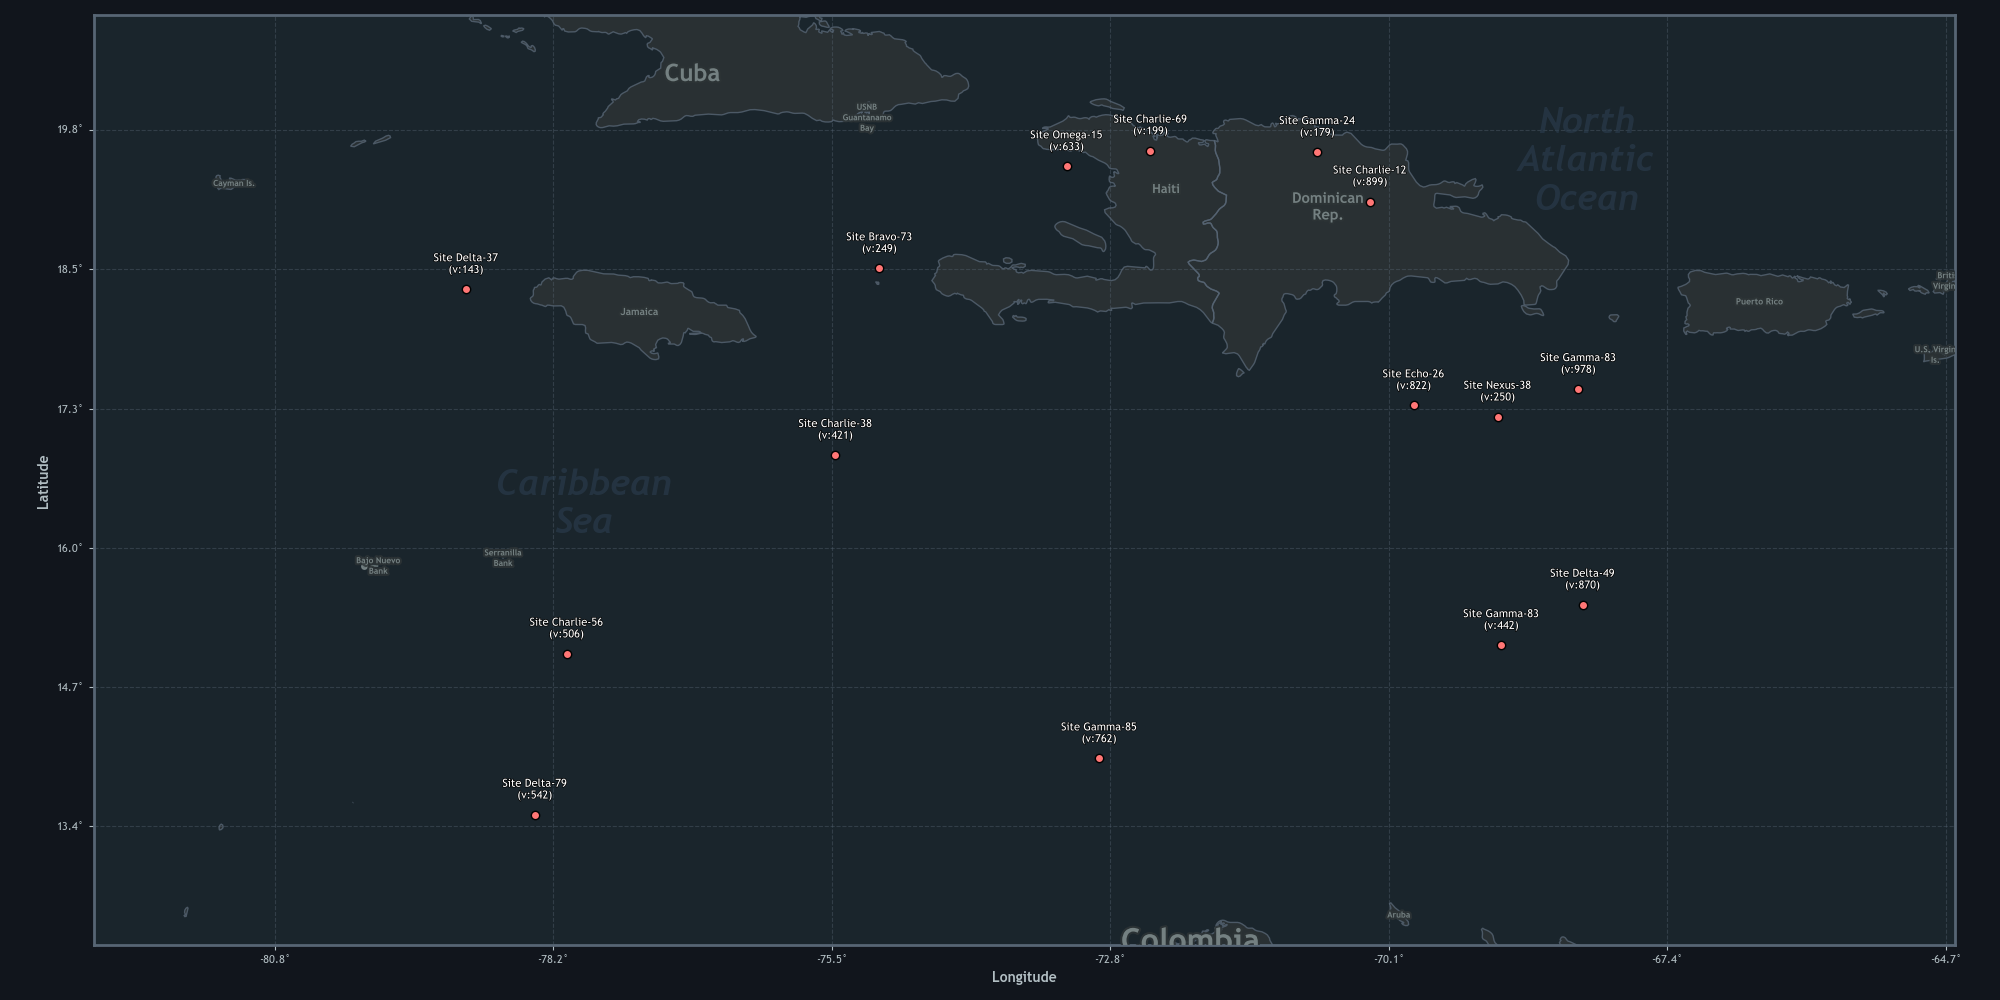
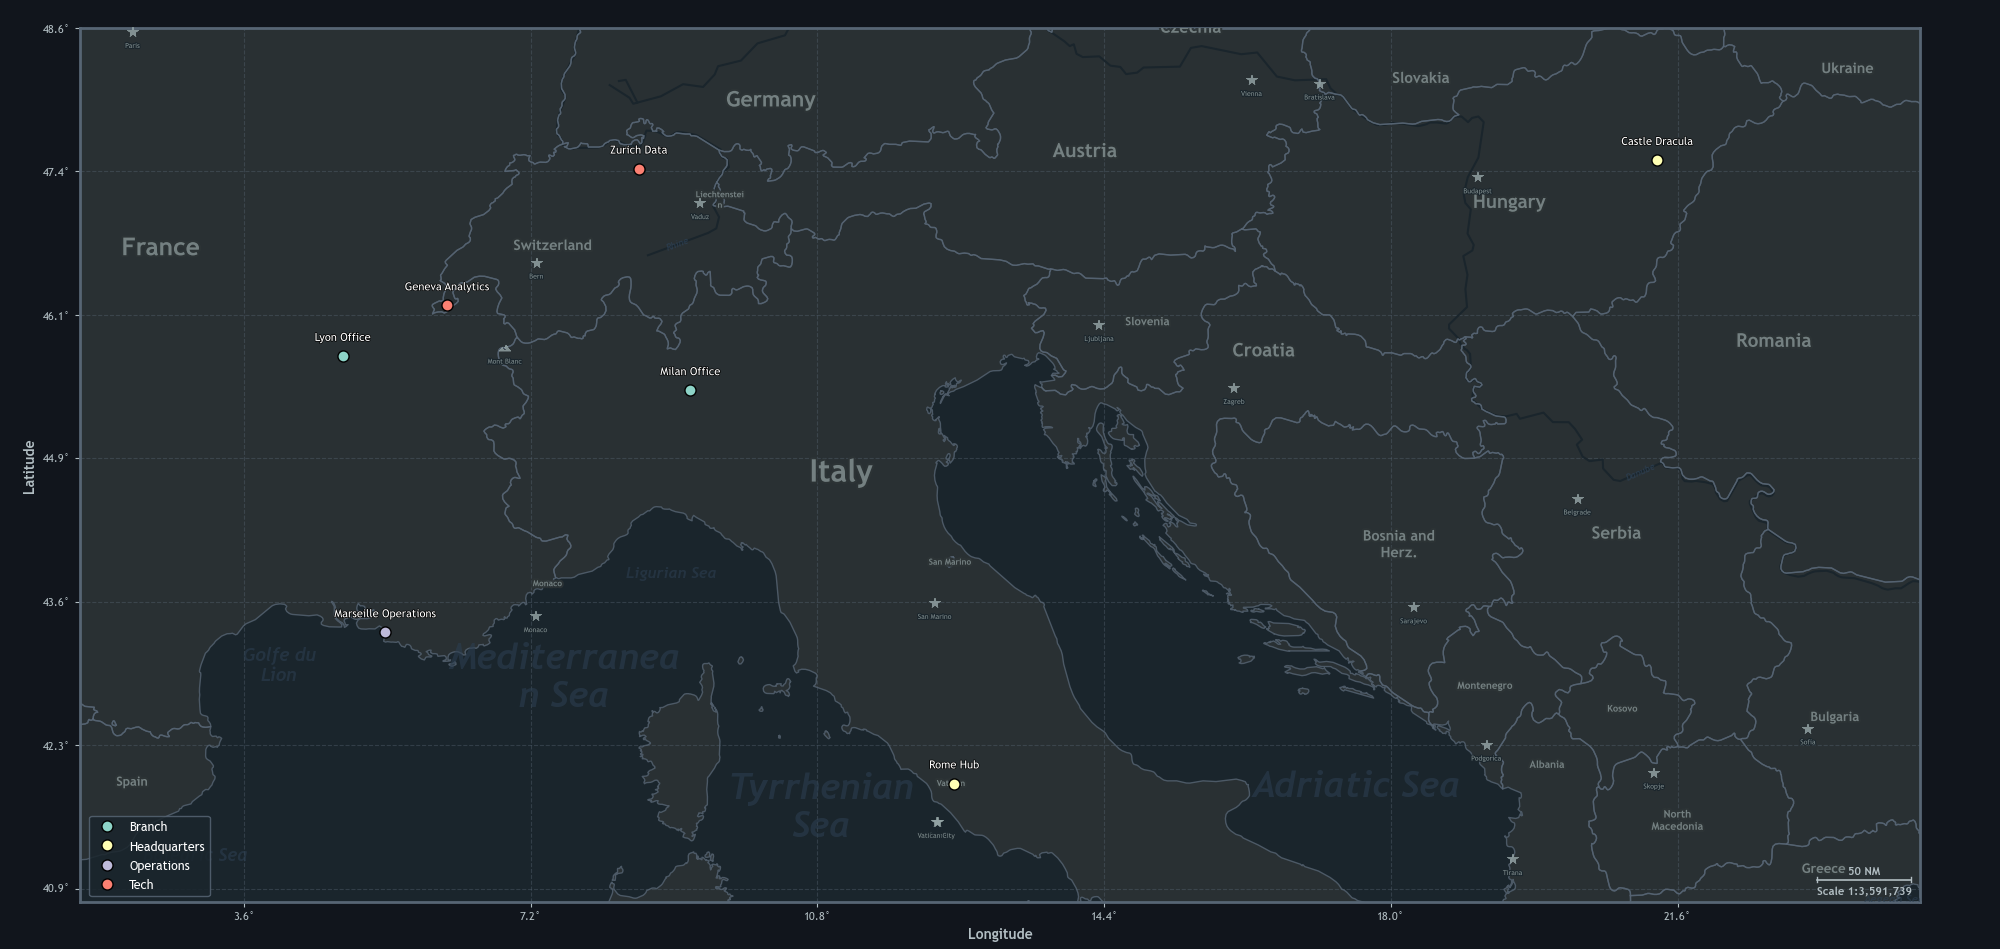
add csv feature support; dynamic layout

diff --git a/plot_map.py b/plot_map.py
@@ -1,11 +1,13 @@
 #!/usr/bin/env python3
 import json
 import argparse
+import csv
+import matplotlib.cm as cm
+import matplotlib.lines as mlines
 import random
 import glob
 import sys
 import math
-import sqlite3
 import io
 from PIL import Image
 import matplotlib
@@ -95,65 +97,7 @@ def create_polygon_patch(coords, facecolor, edgecolor, linewidth, alpha, zorder=
     patch = PathPatch(path, facecolor=facecolor, edgecolor=edgecolor, linewidth=linewidth, alpha=alpha, zorder=zorder)
     return patch, path
 
-def plot_mbtiles(db_path, view_bbox, ax):
-    min_lon, min_lat, max_lon, max_lat = view_bbox
-    conn = sqlite3.connect(db_path)
-    c = conn.cursor()
-    c.execute("SELECT MIN(zoom_level), MAX(zoom_level) FROM tiles")
-    row = c.fetchone()
-    if not row or row[0] is None:
-        print(f"No tiles found in {db_path}")
-        return
-    min_z, max_z = row
-    
-    lon_span = max_lon - min_lon
-    target_tiles = 4.0
-    if lon_span <= 0:
-        z = max_z
-    else:
-        z = int(round(math.log2(360.0 * target_tiles / lon_span)))
-    # Try to zoom in one level for better resolution, but safely clamp to what the DB actually has
-    z = max(min_z, min(z + 1, max_z))
-    print(f"Using zoom level {z} for MBTiles.")
-    
-    def deg2num(lat_deg, lon_deg, zoom):
-        lat_rad = math.radians(lat_deg)
-        n = 2.0 ** zoom
-        xtile = int((lon_deg + 180.0) / 360.0 * n)
-        ytile = int((1.0 - math.asinh(math.tan(lat_rad)) / math.pi) / 2.0 * n)
-        return (xtile, ytile)
-        
-    def num2merc(xtile, ytile, zoom):
-        n = 2.0 ** zoom
-        tile_size = 2.0 * MERCATOR_MAX / n
-        x = -MERCATOR_MAX + xtile * tile_size
-        y = MERCATOR_MAX - ytile * tile_size
-        return x, y
-    
-    xmin, ymin = deg2num(max_lat, min_lon, z)
-    xmax, ymax = deg2num(min_lat, max_lon, z)
-    if xmax < xmin:
-        xmax += 2**z
 
-    tiles_drawn = 0
-    for x in range(xmin, xmax + 1):
-        for y in range(ymin, ymax + 1):
-            wrapped_x = x % (2**z)
-            tms_y = (2**z - 1) - y
-            c.execute("SELECT tile_data FROM tiles WHERE zoom_level=? AND tile_column=? AND tile_row=?", (z, wrapped_x, tms_y))
-            res = c.fetchone()
-            if res:
-                img = Image.open(io.BytesIO(res[0]))
-                if img.mode != 'RGB':
-                    img = img.convert('RGB')
-                x_left, y_top = num2merc(x, y, z)
-                _, y_bot = num2merc(x, y+1, z)
-                x_right, _ = num2merc(x+1, y, z)
-                ax.imshow(img, extent=[x_left, x_right, y_bot, y_top], origin='upper', alpha=1.0, zorder=0)
-                tiles_drawn += 1
-    
-    conn.close()
-    print(f"Drawn {tiles_drawn} raster tiles from MBTiles.")
 
 def plot_geojson_layer(geojson_path, view_bbox, ax, args, merc_bounds, layer_type="land"):
     merc_min_x, merc_min_y, merc_max_x, merc_max_y = merc_bounds
@@ -455,7 +399,7 @@ def plot_geojson_layer(geojson_path, view_bbox, ax, args, merc_bounds, layer_typ
     except Exception as e:
         print(f"Error reading or plotting geojson: {e}")
 
-def plot_map(points, geojson_path, mbtiles_path, args):
+def plot_map(points, geojson_path, args, group_colors=None):
     # Calculate bounding box of generated points
     lons = [p["lon"] for p in points]
     lats = [p["lat"] for p in points]
@@ -478,22 +422,6 @@ def plot_map(points, geojson_path, mbtiles_path, args):
     
     merc_width = merc_max_x - merc_min_x
     merc_height = merc_max_y - merc_min_y
-    target_ratio = 2.0
-    current_ratio = merc_width / merc_height if merc_height > 0 else target_ratio
-    
-    if current_ratio < target_ratio:
-        # Too tall, pad width
-        required_width = merc_height * target_ratio
-        padding_x = (required_width - merc_width) / 2.0
-        merc_min_x -= padding_x
-        merc_max_x += padding_x
-    else:
-        # Too wide, pad height
-        required_height = merc_width / target_ratio
-        padding_y = (required_height - merc_height) / 2.0
-        merc_min_y -= padding_y
-        merc_max_y += padding_y
-        
     merc_min_x = max(-MERCATOR_MAX, merc_min_x)
     merc_max_x = min(MERCATOR_MAX, merc_max_x)
     merc_min_y = max(-MERCATOR_MAX, merc_min_y)
@@ -508,7 +436,63 @@ def plot_map(points, geojson_path, mbtiles_path, args):
     plt.rcParams['font.family'] = 'sans-serif'
     plt.rcParams['font.sans-serif'] = ['Trebuchet MS', 'Verdana', 'Tahoma', 'DejaVu Sans', 'Arial', 'sans-serif']
     
+    # Calculate map dimensions and target aspect ratios
+    merc_width = merc_max_x - merc_min_x
+    merc_height = merc_max_y - merc_min_y
+    data_ratio = merc_width / merc_height if merc_height > 0 else 2.0
+    
+    left_margin, right_margin = 0.04, 0.96
+    bottom_margin, top_margin = 0.05, 0.97
+    if not getattr(args, "show_axis_ticks", True):
+        left_margin, bottom_margin = 0.02, 0.02
+        right_margin, top_margin = 0.98, 0.98
+        
+    ax_width_frac = right_margin - left_margin
+    ax_height_frac = top_margin - bottom_margin
+    
+    if getattr(args, "fit_mode", "normal") == "dynamic":
+        target_image_ratio = data_ratio / (ax_width_frac / ax_height_frac)
+        h_if_w_fixed = args.width / target_image_ratio
+        if h_if_w_fixed >= args.height:
+            dynamic_width = args.width
+            dynamic_height = h_if_w_fixed
+        else:
+            dynamic_height = args.height
+            dynamic_width = args.height * target_image_ratio
+    else:
+        # normal mode: exact fixed width and height, pad map to fit
+        dynamic_width = args.width
+        dynamic_height = args.height
+        
+        target_image_ratio = args.width / args.height
+        target_data_ratio = target_image_ratio * (ax_width_frac / ax_height_frac)
+        
+        if data_ratio < target_data_ratio:
+            required_merc_width = merc_height * target_data_ratio
+            padding_x = (required_merc_width - merc_width) / 2.0
+            merc_min_x -= padding_x
+            merc_max_x += padding_x
+        else:
+            required_merc_height = merc_width / target_data_ratio
+            padding_y = (required_merc_height - merc_height) / 2.0
+            merc_min_y -= padding_y
+            merc_max_y += padding_y
+            
+        merc_min_x = max(-MERCATOR_MAX, merc_min_x)
+        merc_max_x = min(MERCATOR_MAX, merc_max_x)
+        merc_min_y = max(-MERCATOR_MAX, merc_min_y)
+        merc_max_y = min(MERCATOR_MAX, merc_max_y)
+        
+        # update view bbox based on padded area
+        new_min_lon, new_min_lat = merc_to_lonlat(merc_min_x, merc_min_y)
+        new_max_lon, new_max_lat = merc_to_lonlat(merc_max_x, merc_max_y)
+        view_bbox = (new_min_lon, new_min_lat, new_max_lon, new_max_lat)
+        
+    args.width = dynamic_width
+    args.height = dynamic_height
+    
     fig, ax = plt.subplots(figsize=(args.width, args.height))
+    fig.subplots_adjust(left=left_margin, right=right_margin, bottom=bottom_margin, top=top_margin)
     # Aspect ratio is simply equal for Mercator
     ax.set_aspect('equal')
     fig_bg = "#11151c" if args.dark_mode else "white"
@@ -516,10 +500,6 @@ def plot_map(points, geojson_path, mbtiles_path, args):
     ax.set_facecolor(args.bg_color)
     ax.patch.set_zorder(-1)
     
-    polygon_alpha = 0.8
-    if mbtiles_path:
-        plot_mbtiles(mbtiles_path, view_bbox, ax)
-        polygon_alpha = 0.2  # Make polygons transparent to show raster tiles
         
     # Read geojson layers
     merc_bounds = (merc_min_x, merc_min_y, merc_max_x, merc_max_y)
@@ -558,14 +538,67 @@ def plot_map(points, geojson_path, mbtiles_path, args):
     for i, p in enumerate(points):
         lon, lat = p["lon"], p["lat"]
         mx, my = lonlat_to_merc(lon, lat)
-        ax.plot(mx, my, marker=args.marker, color=args.point_color, markersize=args.point_size, markeredgecolor='black', markeredgewidth=1.0, zorder=5)
+        
+        color = args.point_color
+        if group_colors and p.get("group") in group_colors:
+            color = group_colors[p["group"]]
+            
+        ax.plot(mx, my, marker=args.marker, color=color, markersize=args.point_size, markeredgecolor='black', markeredgewidth=1.0, zorder=5)
         # Label generated points
-        if args.show_labels:
-            label = f"{p['name']}\n(v:{p['value']})"
+        if args.show_labels and p.get('name'):
+            label = p['name']
+            if not getattr(args, "csv", "") and 'value' in p and p['value']:
+                label += f"\n(v:{p['value']})"
             y_offset = (merc_max_y - merc_min_y) * 0.015
             txt = ax.text(mx, my + y_offset, label, fontsize=8, fontweight='normal', color=args.label_color, ha='center', va='bottom', zorder=6, clip_on=True)
             txt.set_path_effects([PathEffects.withStroke(linewidth=1.0, foreground=args.label_outline)])
     
+
+    # Add Scale Bar
+    center_lat = (args.lat_min + args.lat_max) / 2.0
+    lon_span = new_max_lon - new_min_lon
+    view_width_m = lon_span * math.cos(math.radians(center_lat)) * 111320
+    view_width_nm = view_width_m / 1852.0
+    
+    target_scale_nm = view_width_nm * 0.10
+    magnitude = 10 ** math.floor(math.log10(max(1, target_scale_nm))) if target_scale_nm > 0 else 1
+    normalized = target_scale_nm / magnitude
+    if normalized < 2: nice_val = 1
+    elif normalized < 5: nice_val = 2
+    else: nice_val = 5
+    scale_nm = max(1, int(nice_val * magnitude))
+    
+    scale_label = f"{scale_nm} NM"
+    deg_span = (scale_nm * 1852.0) / (math.cos(math.radians(center_lat)) * 111320)
+    merc_span = deg_span * MERCATOR_MAX / 180.0
+    
+    sb_color = "#7f8c8d" if not getattr(args, "dark_mode", False) else "#b2bec3"
+    
+    # Bottom right corner for scale bar (tucked closer to edge: 0.5%)
+    sb_x = merc_max_x - (merc_max_x - merc_min_x) * 0.005
+    sb_y = merc_min_y + (merc_max_y - merc_min_y) * 0.025
+    
+    ax.plot([sb_x - merc_span, sb_x], [sb_y, sb_y], color=sb_color, linewidth=1.2, zorder=10)
+    ax.plot([sb_x - merc_span, sb_x - merc_span], [sb_y - (merc_max_y - merc_min_y)*0.003, sb_y + (merc_max_y - merc_min_y)*0.003], color=sb_color, linewidth=1.0, zorder=10)
+    ax.plot([sb_x, sb_x], [sb_y - (merc_max_y - merc_min_y)*0.003, sb_y + (merc_max_y - merc_min_y)*0.003], color=sb_color, linewidth=1.0, zorder=10)
+    ax.text(sb_x - merc_span/2, sb_y + (merc_max_y - merc_min_y)*0.004, scale_label, fontsize=8, fontweight='bold', color=sb_color, ha='center', va='bottom', zorder=10)
+
+    # Scale Ratio text centered directly under the scale bar
+    scale_ratio = int(view_width_m / (args.width * 0.0254))
+    text_y = merc_min_y + (merc_max_y - merc_min_y) * 0.006
+    ax.text(sb_x - merc_span/2, text_y, f"Scale 1:{scale_ratio:,}", fontsize=8, fontweight='bold', color=sb_color, ha='center', va='bottom', zorder=10)
+
+    # Add Legend
+    legend_elements = []
+    if group_colors:
+        for g in sorted(group_colors.keys()):
+            legend_elements.append(mlines.Line2D([0], [0], linestyle='none', marker=args.marker, color='w', markerfacecolor=group_colors[g], markersize=8, markeredgecolor='black', label=g))
+    elif not getattr(args, "csv", ""):
+        legend_elements.append(mlines.Line2D([0], [0], linestyle='none', marker=args.marker, color='w', markerfacecolor=args.point_color, markersize=8, markeredgecolor='black', label='Generated Points'))
+        
+    if legend_elements:
+        ax.legend(handles=legend_elements, loc='lower left', bbox_to_anchor=(0.005, 0.006), borderaxespad=0, fontsize=9, framealpha=0.85, facecolor=args.bg_color, edgecolor=args.map_border, labelcolor=args.label_color)
+
     ax.set_xlim(merc_min_x, merc_max_x)
     ax.set_ylim(merc_min_y, merc_max_y)
     
@@ -600,7 +633,6 @@ def plot_map(points, geojson_path, mbtiles_path, args):
         
     if args.title:
         plt.title(args.title, fontsize=18, fontweight='bold', color='#2c3e50', pad=20)
-    plt.tight_layout()
     plt.savefig(args.output, dpi=args.dpi)
     print(f"Map successfully saved to {args.output}")
 
@@ -614,9 +646,13 @@ def main():
     parser.add_argument("--rivers-data", type=str, default="rivers.geojson", help="Path to rivers GeoJSON file")
     parser.add_argument("--features-data", type=str, default="features.geojson", help="Path to features GeoJSON file")
     parser.add_argument("--features-min-zoom", type=int, default=6, help="Minimum zoom level to display features (0=world, higher=closer)")
-    parser.add_argument("--mbtiles", type=str, default="", help="Path to MBTiles file. If empty, searches current dir.")
     
     # Point Generation
+    parser.add_argument("--csv", type=str, default="", help="Path to CSV file with points")
+    parser.add_argument("--csv-lat", type=str, default="", help="CSV latitude column")
+    parser.add_argument("--csv-lon", type=str, default="", help="CSV longitude column")
+    parser.add_argument("--csv-label", type=str, default="", help="CSV label column")
+    parser.add_argument("--csv-group", type=str, default="", help="CSV group column")
     parser.add_argument("-n", "--num-points", type=int, default=15, help="Number of points to generate")
     parser.add_argument("--lat-min", type=float, default=None, help="Min latitude for point generation")
     parser.add_argument("--lat-max", type=float, default=None, help="Max latitude for point generation")
@@ -625,10 +661,11 @@ def main():
     parser.add_argument("--seed", type=int, default=None, help="Random seed for point generation")
     
     # Map Styling
-    parser.add_argument("--margin", type=float, default=0.2, help="Margin around points (fraction of width/height)")
+    parser.add_argument("--margin", type=float, default=0.1, help="Margin around points (fraction of width/height)")
     parser.add_argument("--min-margin", type=float, default=1.0, help="Minimum margin in degrees")
     parser.add_argument("--width", type=float, default=20.0, help="Image width in inches")
     parser.add_argument("--height", type=float, default=10.0, help="Image height in inches")
+    parser.add_argument("--fit-mode", choices=["normal", "dynamic"], default="normal", help="Fit mode: 'normal' fixes map to exact width/height, 'dynamic' expands to fit data.")
     parser.add_argument("--dpi", type=int, default=100, help="Output image DPI")
     parser.add_argument("--title", type=str, default="", help="Map title")
     
@@ -638,7 +675,7 @@ def main():
     parser.add_argument("--map-border", type=str, default="#7f8c8d", help="Map polygon border color")
     parser.add_argument("--border-width", type=float, default=1.0, help="Map border width")
     parser.add_argument("--point-color", type=str, default="#e74c3c", help="Generated points color")
-    parser.add_argument("--point-size", type=float, default=6.0, help="Generated points size")
+    parser.add_argument("--point-size", type=float, default=8.0, help="Generated points size")
     parser.add_argument("--marker", type=str, default="o", help="Generated points marker style")
     parser.add_argument("--label-color", type=str, default="black", help="Label text color")
     parser.add_argument("--label-outline", type=str, default="white", help="Label outline color")
@@ -687,31 +724,70 @@ def main():
         else:
             print("Warning: No .geojson file found in the current directory.")
             
-    mbtiles_path = args.mbtiles
-    if not mbtiles_path:
-        files = glob.glob("*.mbtiles")
-        if files:
-            mbtiles_path = files[0]
-            print(f"Auto-detected MBTiles file: {mbtiles_path}")
             
-    # Generate points
-    if args.seed is not None:
-        random.seed(args.seed)
-        
-    if args.lat_min is None or args.lat_max is None or args.lon_min is None or args.lon_max is None:
-        center_lat = random.uniform(-40, 50)
-        center_lon = random.uniform(-100, 100)
-        lat_spread = random.uniform(5, 15)
-        lon_spread = random.uniform(5, 15)
-        args.lat_min = center_lat - lat_spread / 2.0
-        args.lat_max = center_lat + lat_spread / 2.0
-        args.lon_min = center_lon - lon_spread / 2.0
-        args.lon_max = center_lon + lon_spread / 2.0
-        print(f"Random region selected: Lat [{args.lat_min:.2f}, {args.lat_max:.2f}], Lon [{args.lon_min:.2f}, {args.lon_max:.2f}]")
-    points = generate_points(args.num_points, args.lat_min, args.lat_max, args.lon_min, args.lon_max)
+    # Generate or Load points
+    points = []
+    groups_present = set()
+    group_colors = {}
+    
+    if args.csv:
+        print(f"Loading points from {args.csv}...")
+        with open(args.csv, newline='', encoding='utf-8') as f:
+            reader = csv.DictReader(f)
+            headers = [h.lower() for h in reader.fieldnames] if reader.fieldnames else []
+            lat_col = args.csv_lat if args.csv_lat else next((h for h in reader.fieldnames if h.lower() in ('lat', 'latitude')), None)
+            lon_col = args.csv_lon if args.csv_lon else next((h for h in reader.fieldnames if h.lower() in ('lon', 'longitude', 'lng')), None)
+            lbl_col = args.csv_label if args.csv_label else next((h for h in reader.fieldnames if h.lower() in ('label', 'name', 'site', 'title')), None)
+            grp_col = args.csv_group if args.csv_group else next((h for h in reader.fieldnames if h.lower() in ('group', 'category', 'type')), None)
+            
+            if not lat_col or not lon_col:
+                print("Error: Could not determine latitude and longitude columns in CSV.")
+                sys.exit(1)
+                
+            for row in reader:
+                try:
+                    lat = float(row[lat_col])
+                    lon = float(row[lon_col])
+                    name = row[lbl_col] if lbl_col and lbl_col in row else ""
+                    group = row[grp_col] if grp_col and grp_col in row else ""
+                    points.append({"lon": lon, "lat": lat, "name": name, "value": 0, "group": group})
+                    if group:
+                        groups_present.add(group)
+                except (ValueError, KeyError):
+                    continue
+        if points:
+            lons = [p["lon"] for p in points]
+            lats = [p["lat"] for p in points]
+            # Ensure we don't accidentally restrict bounds if the user specified them
+            if args.lat_min is None: args.lat_min = min(lats)
+            if args.lat_max is None: args.lat_max = max(lats)
+            if args.lon_min is None: args.lon_min = min(lons)
+            if args.lon_max is None: args.lon_max = max(lons)
+            
+        if groups_present:
+            cmap = cm.get_cmap('Set3')
+            colors = [matplotlib.colors.to_hex(cmap(i/11.0)) for i in range(12)]
+            for i, g in enumerate(sorted(groups_present)):
+                group_colors[g] = colors[i % len(colors)]
+    else:
+        if args.seed is not None:
+            random.seed(args.seed)
+            
+        if args.lat_min is None or args.lat_max is None or args.lon_min is None or args.lon_max is None:
+            center_lat = random.uniform(-40, 50)
+            center_lon = random.uniform(-100, 100)
+            lat_spread = random.uniform(5, 15)
+            lon_spread = random.uniform(5, 15)
+            args.lat_min = center_lat - lat_spread / 2.0
+            args.lat_max = center_lat + lat_spread / 2.0
+            args.lon_min = center_lon - lon_spread / 2.0
+            args.lon_max = center_lon + lon_spread / 2.0
+            print(f"Random region selected: Lat [{args.lat_min:.2f}, {args.lat_max:.2f}], Lon [{args.lon_min:.2f}, {args.lon_max:.2f}]")
+        points = generate_points(args.num_points, args.lat_min, args.lat_max, args.lon_min, args.lon_max)
+
     
     # Plot
-    plot_map(points, geojson_path, mbtiles_path, args)
+    plot_map(points, geojson_path, args, group_colors)
 
 if __name__ == "__main__":
     main()
